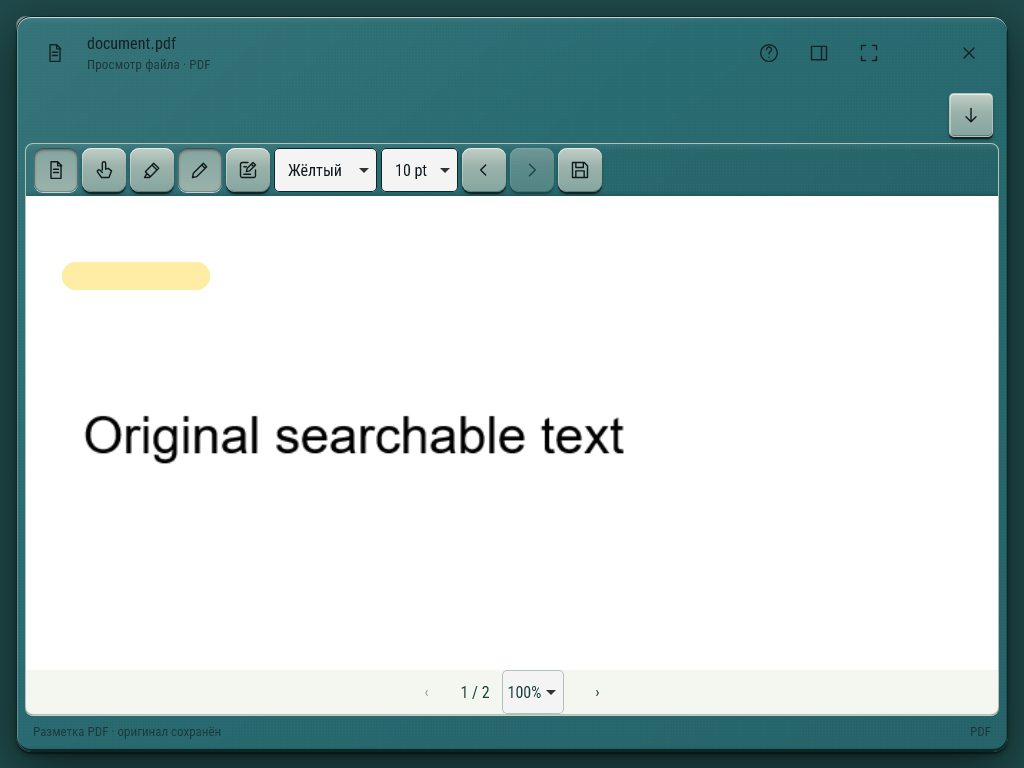
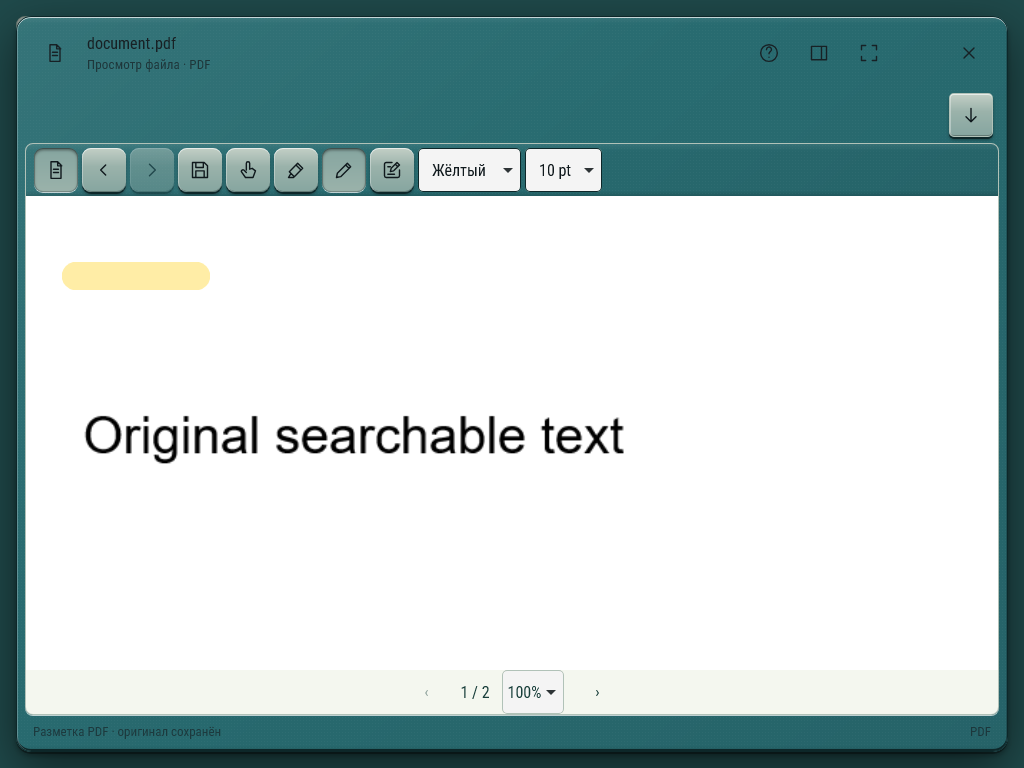
Group PDF tools by purpose across narrow windows

Changed region(s): [[0.0938, 0.1875, 0.5938, 0.25]]

diff --git a/apps/web/src/PdfMarkup.tsx b/apps/web/src/PdfMarkup.tsx
@@ -197,97 +197,103 @@ export default function PdfMarkup({
       {enabled && (
         <div className="file-format-tools">
           <div className="format-tool-row" role="toolbar" aria-label="Разметка PDF">
-            <button
-              type="button"
-              className="icon-button"
-              aria-label={editing ? "Просмотр PDF" : "Разметить PDF"}
-              title={editing ? "Просмотр PDF" : "Разметить PDF"}
-              disabled={!key || busy}
-              aria-pressed={editing}
-              onClick={() => setEditing(!editing)}
-            >
-              <Icon name={editing ? "file" : "edit"} />
-            </button>
+            <div className="pdf-toolbar-group">
+              <button
+                type="button"
+                className="icon-button"
+                aria-label={editing ? "Просмотр PDF" : "Разметить PDF"}
+                title={editing ? "Просмотр PDF" : "Разметить PDF"}
+                disabled={!key || busy}
+                aria-pressed={editing}
+                onClick={() => setEditing(!editing)}
+              >
+                <Icon name={editing ? "file" : "edit"} />
+              </button>
+              <button
+                type="button"
+                className="icon-button"
+                aria-label="Отменить разметку PDF"
+                title="Отменить"
+                disabled={!draft.index || busy}
+                onClick={() => setDraft((d) => ({ ...d, index: d.index - 1 }))}
+              >
+                <Icon name="back" />
+              </button>
+              <button
+                type="button"
+                className="icon-button"
+                aria-label="Повторить разметку PDF"
+                title="Повторить"
+                disabled={draft.index === draft.marks.length || busy}
+                onClick={() => setDraft((d) => ({ ...d, index: d.index + 1 }))}
+              >
+                <Icon name="chevron" />
+              </button>
+              <button
+                type="button"
+                className="icon-button"
+                aria-label="Сохранить копию PDF"
+                title="Сохранить копию PDF"
+                disabled={!draft.index || busy}
+                onClick={() => void exportCopy()}
+              >
+                <Icon name="save" />
+              </button>
+            </div>
             {editing && (
               <>
-                {(
-                  [
-                    ["pan", "touch", "Прокрутка PDF"],
-                    ["marker", "marker", "Маркер PDF"],
-                    ["pen", "edit", "Перо PDF"],
-                    ["comment", "note-edit", "Комментарий PDF"],
-                  ] as const
-                ).map(([value, icon, label]) => (
-                  <button
-                    type="button"
-                    className="icon-button"
-                    key={value}
-                    aria-label={label}
-                    title={label}
-                    aria-pressed={tool === value}
-                    disabled={busy}
-                    onClick={() => setTool(value)}
-                  >
-                    <Icon name={icon} />
-                  </button>
-                ))}
-                <select
-                  aria-label="Цвет разметки PDF"
-                  value={color}
-                  onChange={(e) => setColor(e.target.value)}
-                >
-                  <option value="#ffcc00">Жёлтый</option>
-                  <option value="#ff3344">Красный</option>
-                  <option value="#2288ff">Синий</option>
-                  <option value="#22bb66">Зелёный</option>
-                  <option value="#000000">Чёрный</option>
-                  <option value="#ffffff">Белый</option>
-                </select>
-                {tool !== "comment" && tool !== "pan" && (
+                <div className="pdf-toolbar-group">
+                  {(
+                    [
+                      ["pan", "touch", "Прокрутка PDF"],
+                      ["marker", "marker", "Маркер PDF"],
+                      ["pen", "edit", "Перо PDF"],
+                      ["comment", "note-edit", "Комментарий PDF"],
+                    ] as const
+                  ).map(([value, icon, label]) => (
+                    <button
+                      type="button"
+                      className="icon-button"
+                      key={value}
+                      aria-label={label}
+                      title={label}
+                      aria-pressed={tool === value}
+                      disabled={busy}
+                      onClick={() => setTool(value)}
+                    >
+                      <Icon name={icon} />
+                    </button>
+                  ))}
+                </div>
+                <div className="pdf-toolbar-group">
                   <select
-                    aria-label="Толщина разметки PDF"
-                    value={width}
-                    onChange={(e) => setWidth(Number(e.target.value))}
+                    aria-label="Цвет разметки PDF"
+                    value={color}
+                    onChange={(e) => setColor(e.target.value)}
                   >
-                    {[2, 5, 10, 20].map((n) => (
-                      <option key={n} value={n}>
-                        {n} pt
-                      </option>
-                    ))}
+                    <option value="#ffcc00">Жёлтый</option>
+                    <option value="#ff3344">Красный</option>
+                    <option value="#2288ff">Синий</option>
+                    <option value="#22bb66">Зелёный</option>
+                    <option value="#000000">Чёрный</option>
+                    <option value="#ffffff">Белый</option>
                   </select>
-                )}
+                  {tool !== "comment" && tool !== "pan" && (
+                    <select
+                      aria-label="Толщина разметки PDF"
+                      value={width}
+                      onChange={(e) => setWidth(Number(e.target.value))}
+                    >
+                      {[2, 5, 10, 20].map((n) => (
+                        <option key={n} value={n}>
+                          {n} pt
+                        </option>
+                      ))}
+                    </select>
+                  )}
+                </div>
               </>
             )}
-            <button
-              type="button"
-              className="icon-button"
-              aria-label="Отменить разметку PDF"
-              title="Отменить"
-              disabled={!draft.index || busy}
-              onClick={() => setDraft((d) => ({ ...d, index: d.index - 1 }))}
-            >
-              <Icon name="back" />
-            </button>
-            <button
-              type="button"
-              className="icon-button"
-              aria-label="Повторить разметку PDF"
-              title="Повторить"
-              disabled={draft.index === draft.marks.length || busy}
-              onClick={() => setDraft((d) => ({ ...d, index: d.index + 1 }))}
-            >
-              <Icon name="chevron" />
-            </button>
-            <button
-              type="button"
-              className="icon-button"
-              aria-label="Сохранить копию PDF"
-              title="Сохранить копию PDF"
-              disabled={!draft.index || busy}
-              onClick={() => void exportCopy()}
-            >
-              <Icon name="save" />
-            </button>
           </div>
           {editing && tool === "comment" && (
             <label className="pdf-comment-input">

diff --git a/apps/web/src/pdf-markup.css b/apps/web/src/pdf-markup.css
@@ -43,3 +43,10 @@
   padding: 8px;
   flex: none;
 }
+
+.pdf-toolbar-group {
+  display: flex;
+  gap: 4px;
+  flex: none;
+  align-items: center;
+}
